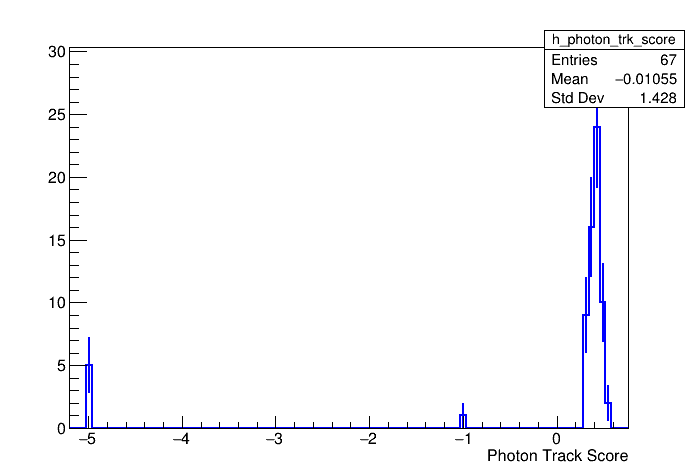
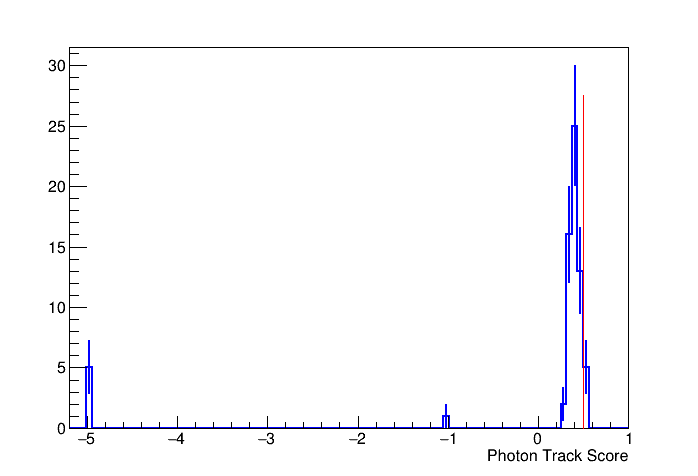
made new photon plot

diff --git a/pyROOT/Scripts/basic_analysis.py b/pyROOT/Scripts/basic_analysis.py
@@ -164,15 +164,20 @@ h_slc_true_pdg.GetXaxis().SetTitle("True Slice PDG")
 c.SaveAs("../../Figs/test_slice_true_pdg.png")
 
 
-h_photon_trk_score = ROOT.TH1D("h_photon_trk_score", "", 100, min(photon_trk_scores) - 0.2, max(photon_trk_scores) + 0.2)
+h_photon_trk_score = ROOT.TH1D("h_photon_trk_score", "", 100, min(photon_trk_scores) - 0.2, 1)
 for num in photon_trk_scores:
 	h_photon_trk_score.Fill(num)
 
 c = ROOT.TCanvas("c", "c", 700, 500)
+h_photon_trk_score.SetStats(0)
 h_photon_trk_score.SetLineColor(4)
 h_photon_trk_score.SetLineWidth(2)
 h_photon_trk_score.GetXaxis().SetTitle("Photon Track Score")
 h_photon_trk_score.Draw("HISTE")
+
+line = ROOT.TLine(0.5, 0, 0.5, 1.1*h_photon_trk_score.GetMaximum())
+line.SetLineColor(2)  # Optional: Set line color
+line.Draw("Same")
 c.SaveAs("../../Figs/test_photon_trk_score.png")
 
 
